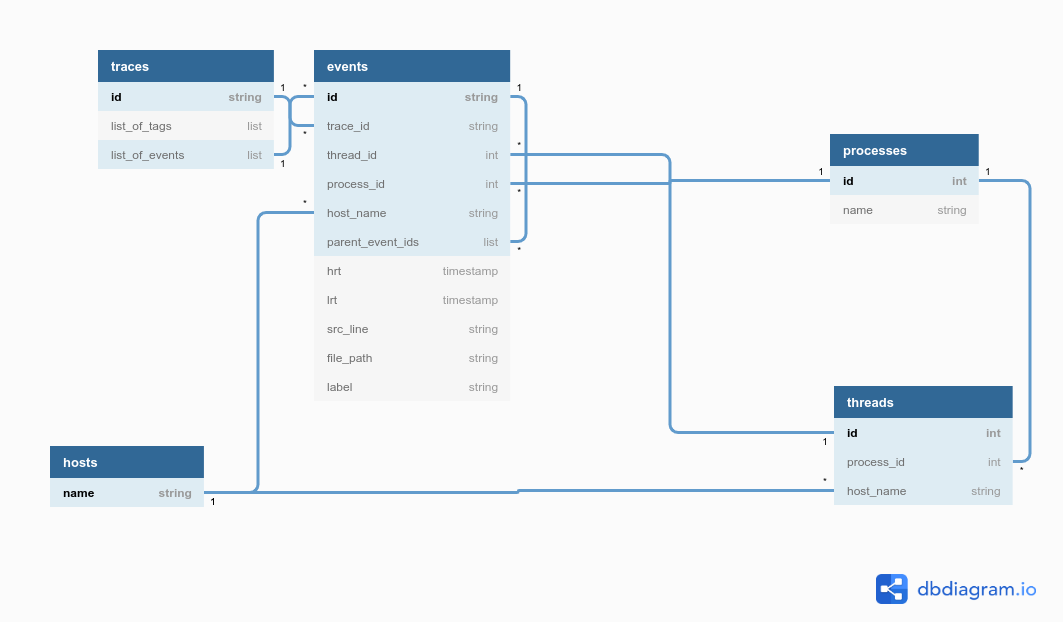
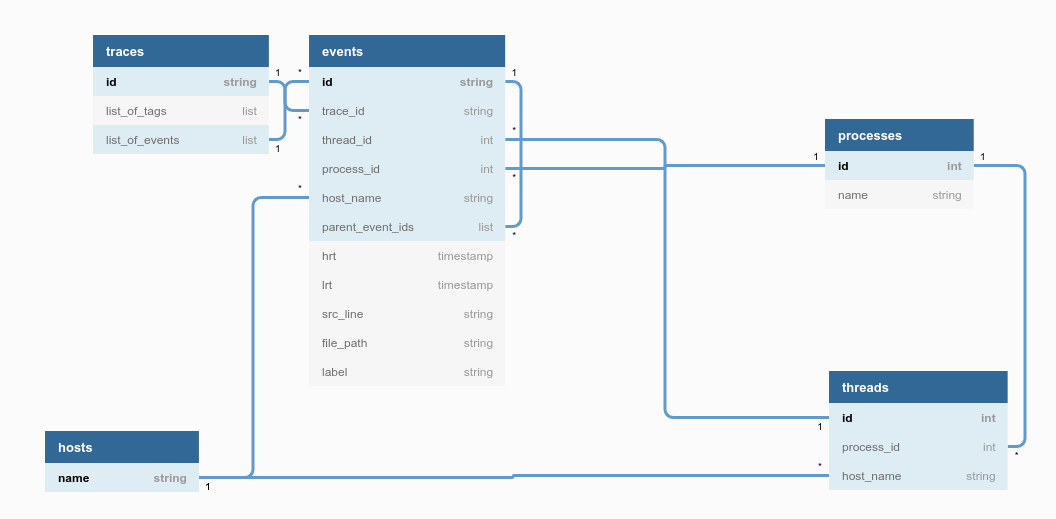
Data, Trace, Host, Process, Threads

diff --git a/proposal/proposal.tex b/proposal/proposal.tex
@@ -41,7 +41,63 @@ research assistanships and graduate research. Tracing is a new topic for him, bu
 an interesting area that can be useful for debugging and comprehending the interactions of large networks
 of computers.
 
-\section{Data and Task}
+\section{Data}
+
+We have a collection of traces and source code for a couple of different systems. Our traces come from two datasets.
+The first dataset is called HDFS and contains the traces from a file system in Hadoop used for distributed storage 
+and big data processing. This dataset has a total of 71,001 traces. The second dataset is called socialNetwork and
+was obtained from the DeathStarBench open-source benchmark for cloud microservices. The traces of this dataset model
+the microservices of a social network composed of multiple individual applications. The socialNetwork dataset has
+a total of 22,286 traces. The attributes of both datasets model five different entities: traces, events, hosts,
+processes and threads. These entities are illustrated in \ref{fig:entities}.
+
+\begin{figure}
+    \includegraphics[width=\linewidth]{../data_abstractions.png}
+    \caption{The different entities in TraViz.}
+    \label{fig:entities}
+  \end{figure}
+
+\subsection{Trace}
+
+A trace is a collection of events. It represents a request from a client to a service and shows the path of the
+request through the microservice. A trace has three attributes: \textit{id}, \textit{list\_of\_tags}, and \textit{list\_of\_events}.
+The \textit{id} of the trace is used to identify a trace. The \textit{list\_of\_tags} is a list of human defined keywords that serve as
+the metadata for the trace. There are on average two tags per trace in both datasets, but the socialNetwork
+dataset has a total of 8 different tags and the HDFS dataset has a total of 22285 different tags. The
+\textit{list\_of\_events} attribute is a list of the events that happened in a trace. The events in the list
+are ordered, with events that caused another event preceding the caused event in the list. The causal relationship
+between the events forms a DAG. There are around 100 events per trace in the socialNetwork dataset and 1400 events per trace
+in the HDFS dataset.
+
+\subsection{Event}
+
+\subsection{Host}
+
+A host represents a node in the distributed system. It encapsulates the processes and threads
+that execute the events in a trace. There are 13 different hosts across the social network dataset
+and 9 different hosts across the HDFS dataset. The host is identified by a name attribute, which is
+referenced by events and threads.
+
+\subsection{Process}
+
+The process entity represents a operating system process running on
+a host. Processes have an \textit{id} attribute, which is referenced by the events and threads executed in
+the process. The process also has a \textit{name} attribute, which gives a human understandable name for the
+application running the process. There are around 20 different processes per trace in the socialNetwork
+dataset and 18 different processes per trace in the HDFS dataset. There are 13 different process names
+in the socialNetwork dataset and 4 different process names in the HDFS dataset.
+
+\subsection{Thread}
+
+The thread entity represents
+a kernel or user thread. Distinguishing between both is not important for the purposes of this project, so we
+simply see it as the basic unit of execution. Threads have an \textit{id} attribute that identifies a thread
+within a trace. Events use the \textit{id} to signal the thread that executed them. It is important to note
+that the thread \textit{id} does not match across traces, and the total number of threads is not useful because it's
+not possible to correlate them between traces. Each thread also has a \textit{host\_name} and \textit{process\_id}
+attribute. These attributes are used to identify the host and process that executed a thread. 
+
+\section{Task}
 
 \section{Proposed Solution}
 
